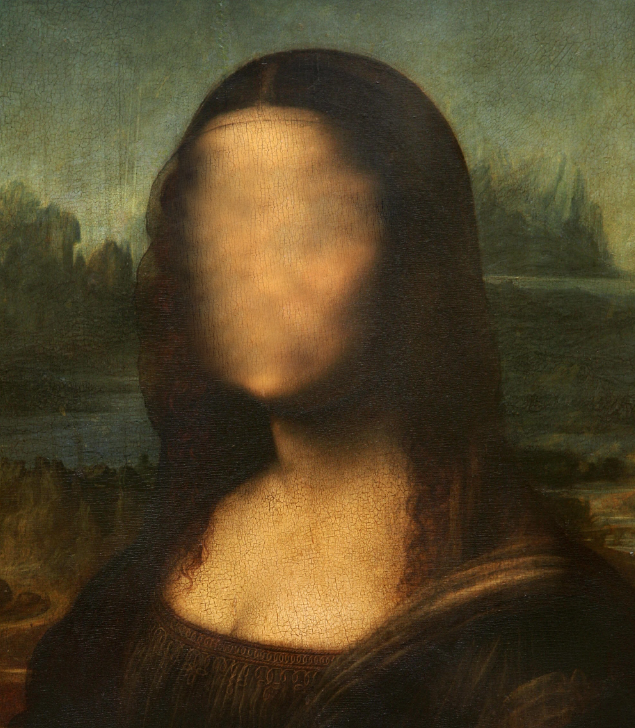
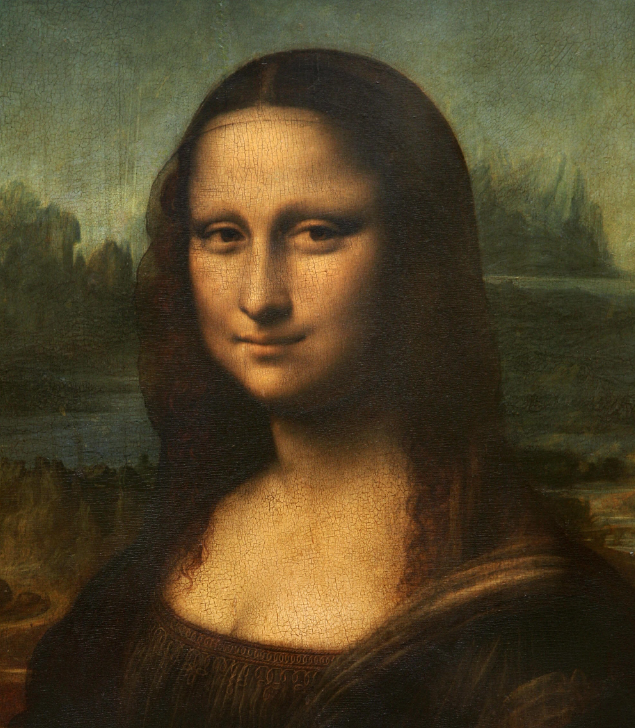
added face replacement backgrounds

Changed region(s): [[0.2693, 0.1813, 0.5984, 0.544]]

diff --git a/e05_style_multi.py b/e05_style_multi.py
@@ -16,7 +16,7 @@ import copy
 
 
 class StyleMultiSnap:
-    def __init__(self, height=480, width=320, cam=None, window_name=None):
+    def __init__(self, height=480, width=320, cam=None, window_name=None, focus_face=False):
         self.width = width
         self.heigth = height
         self.gpio = GPIOPinReader()
@@ -25,6 +25,7 @@ class StyleMultiSnap:
         self.window_name = window_name
 
         self.people_seg = SegmentationModel()
+        self.focus_face = focus_face
         self.face_det = FaceDetector()
         self.drawing_model = SketchModel()
         self.snap_camera = SnapCamera()
@@ -34,18 +35,32 @@ class StyleMultiSnap:
                             StyleTransfer('style_transfer/color_starry_300x480.onnx', width=300, height=480, preserve_color=True),
                             StyleTransfer('style_transfer/matisse_450x720.onnx', width=450, height=720, preserve_color=False),
                             StyleTransfer('style_transfer/afremov_450x720.onnx', width=450, height=720, preserve_color=False),
-                            StyleTransfer('style_transfer/flat_450x720.onnx', width=450, height=720, preserve_color=True, alpha=0.75),
+                            StyleTransfer('style_transfer/flat_450x720.onnx', width=450, height=720, preserve_color=True, segmap_to_gray=True),
+                            StyleTransfer('style_transfer/afremov_450x720.onnx', width=450, height=720, preserve_color=True, invert_segmap=True, segmap_to_gray=True),
                             SketchModel(width=480, heigth=720),
                             ]
     
-    def multi_snap(self, cd=3):
+    def multi_snap(self):
         seconds_left = self.snap_camera.start_snap()
         while seconds_left > 0:
             frame = self.cam.get_frame()
+            if self.focus_face:
+                boxes = self.face_det.find_single_face(frame)
+                self.face_det.draw_bounding_boxes(frame, boxes, color=(255,200,0))
             display_frame, seconds_left = self.snap_camera.snap(frame.copy())
+
             #print(seconds_left)
             cv2.imshow(self.window_name,display_frame)
             cv2.waitKey(1)
+        
+        if self.focus_face:
+            try:
+                frame = self.cam.get_frame()
+                boxes = self.face_det.find_single_face(frame)
+                frame = self.face_det.get_crops(boxes, frame, self.width, self.heigth, zoom=0.65)[0]
+            except:
+                frame = self.cam.get_frame()
+
 
         print('starting inference')
         self.seg_map = self.people_seg.segment(frame)
@@ -73,6 +88,7 @@ class StyleMultiSnap:
                     styled_frames[-1] = np.minimum(drawing, bg)
                     styled_frames[-2] =  np.minimum(drawing, styled_frames[-2]) #np.maximum(cv2.bitwise_not(drawing), styled_frames[-2])
                     styled_frames[-3] =  np.minimum(drawing, styled_frames[-3]) 
+                    styled_frames[-4] =  np.minimum(drawing, styled_frames[-4]) 
 
             frame_id%=len(styled_frames)
             styled_frame = styled_frames[frame_id]
@@ -100,5 +116,5 @@ class StyleMultiSnap:
 
 
 if __name__=='__main__':
-    sn = StyleMultiSnap(window_name='out')
+    sn = StyleMultiSnap(window_name='out', focus_face=True)
     sn.multi_snap()

diff --git a/e04_face_replace_multi.py b/e04_face_replace_multi.py
@@ -11,38 +11,30 @@ from queue import Queue
 from skimage import exposure
 
 
-class FaceReplace:
-    def __init__(self, height=480, width=320, cam=None, window_name=None, static_bg=None, face_area=None, style_path=None, softer_mask = 'resources/mask.jpg'):
+class FaceReplaceMulti:
+    def __init__(self, height=480, width=320, cam=None, window_name=None, softer_mask = 'resources/mask.jpg'):
         self.width = width
         self.heigth = height
 
         self.cam = Camera('cv2', self.width, self.heigth) if cam is None else cam
         self.window_name = window_name
-        self.background = cv2.resize(cv2.imread(static_bg), (self.width, self.heigth))
 
         self.people_seg = SegmentationModel()
         self.face_det = FaceDetector()
-        if style_path is not None:
-            self.style_model = StyleTransfer(style_path, height=200, width=200, preserve_color=True)
-        else:
-            self.style_model = None
         self.snap_camera = SnapCamera()
 
         self.softer_mask = cv2.imread(softer_mask)/255.0
 
-        if face_area is None:
-            boxes = self.face_det.find_single_face(self.background)
-            print(boxes[0])
-            self.face_area = boxes[0]
-            # self.face_det.draw_bounding_boxes(self.background, boxes)
-            # cv2.imshow('face',self.background)
-            # cv2.waitKey()
-        else:
-            self.face_area =[int(face_area[0]*width),
-                             int(face_area[1]*height),
-                             int(face_area[2]*width),
-                             int(face_area[3]*height)]
-    
+        backgrounds = ['resources/mona_lisa.jpg'
+                            
+                            ]
+        
+        self.face_areas = [
+                            [0.27, 0.145, 0.61, 0.55]
+                            ]
+        
+        self.backgrounds = [cv2.resize(cv2.imread(bg), (self.width, self.heigth)) for bg in backgrounds]
+
     def face_replace_snap(self):
         
         # key = cv2.waitKey(1) & 0xFF

diff --git a/style_transfer/utils.py b/style_transfer/utils.py
@@ -1,15 +1,15 @@
 import cv2
 import numpy as np
-def transfer_color(src, dest, mask=None, alpha=1.0):
+def transfer_color(src, dest, mask=None, alpha=1.0, invert_mask=False, src_to_grayscale=False):
     """
     Transfer Color using YIQ colorspace. Useful in preserving colors in style transfer.
     This method assumes inputs of shape [Height, Width, Channel] in BGR Color Space
     """
     if np.max(src)<=1:
-        print(' TRANSFER COLOR WARNING: received fp32 image, scaling')
+        print(' TRANSFER COLOR WARNING: received fp32 src image, scaling')
         src = (src.copy()*255).astype(np.uint8)
     if np.max(dest)<=1:
-        print(' TRANSFER COLOR WARNING: received fp32 image, scaling')
+        print(' TRANSFER COLOR WARNING: received fp32 dest image, scaling')
         dest = (dest.copy()*255).astype(np.uint8)
     src, dest = src.clip(0,255), dest.clip(0,255)
 
@@ -19,6 +19,10 @@ def transfer_color(src, dest, mask=None, alpha=1.0):
     H,W,_ = src.shape 
     dest = cv2.resize(dest, dsize=(W, H), interpolation=cv2.INTER_LINEAR)
 
+    if src_to_grayscale:
+       src = cv2.cvtColor(cv2.cvtColor(src, cv2.COLOR_BGR2GRAY), cv2.COLOR_GRAY2BGR)
+
+
     dest_gray = cv2.cvtColor(dest, cv2.COLOR_BGR2GRAY)              #1 Extract the Destination's luminance
     src_yiq = cv2.cvtColor(src, cv2.COLOR_BGR2YCrCb)                #2 Convert the Source from BGR to YIQ/YCbCr
     src_yiq[...,0] = dest_gray* alpha + src_yiq[...,0]*(1-alpha)    #3 Combine Destination's luminance and Source's IQ/CbCr
@@ -27,6 +31,8 @@ def transfer_color(src, dest, mask=None, alpha=1.0):
         mask = cv2.resize(mask, dsize=(W, H), interpolation=cv2.INTER_LINEAR)
         out = cv2.cvtColor(src_yiq, cv2.COLOR_YCrCb2BGR).clip(0,255)
         mask = np.clip(mask,0,1)
+        if invert_mask:
+            mask = 1-mask
         mask = cv2.cvtColor(mask, cv2.COLOR_GRAY2BGR)
         out = (out*mask + dest*(1-mask)).astype(np.uint8)
     else:

diff --git a/style_transfer/style_transfer.py b/style_transfer/style_transfer.py
@@ -4,7 +4,7 @@ import onnxruntime as ort
 import style_transfer.utils as utils # assuming this module contains a transfer_color function
 
 class StyleTransfer:
-    def __init__(self, model_path= 'style_transfer/brush_300x480.onnx', height = 480, width = 300, preserve_color = True, alpha=1.0):
+    def __init__(self, model_path= 'style_transfer/brush_300x480.onnx', height = 480, width = 300, preserve_color = True, alpha=1.0, invert_segmap=False, segmap_to_gray=False):
 
         self.ort_session = ort.InferenceSession(model_path)
         self.input_name = self.ort_session.get_inputs()[0].name
@@ -14,6 +14,8 @@ class StyleTransfer:
         self.width = width
         self.alpha = alpha
         self.added_noise =(np.random.rand(self.height, self.width, 3).astype(np.float32)-0.5)*10
+        self.invert_segmap = invert_segmap
+        self.segmap_to_gray = segmap_to_gray
 
     def transfer_style(self, frame: np.ndarray, seg_map: np.ndarray = None) -> np.ndarray:
         height, width, _ = frame.shape
@@ -30,7 +32,7 @@ class StyleTransfer:
         generated_image = (generated_image*255).astype(np.uint8)
 
         if self.preserve_color:
-            generated_image = utils.transfer_color(img, generated_image, mask=seg_map, alpha=self.alpha)
+            generated_image = utils.transfer_color(img, generated_image, mask=seg_map, alpha=self.alpha, invert_mask=self.invert_segmap, src_to_grayscale=self.segmap_to_gray)
 
         out_frame = cv2.resize(generated_image,(width, height))
 

diff --git a/camera.py b/camera.py
@@ -7,7 +7,7 @@ except:
     print('Picamera2 not available')
 
 class Camera:
-    def __init__(self, library, width, height):
+    def __init__(self, library, width, height, unzoom=2):
         self.width = width
         self.height = height
         self.library = auto_library
@@ -18,9 +18,11 @@ class Camera:
             self.cap.set(cv2.CAP_PROP_FRAME_HEIGHT, self.height)
         elif self.library == 'picamera':
             self.picam2 = Picamera2()
-            self.picam2.configure(self.picam2.create_preview_configuration(main={"format": 'RGB888', "size": (height*2, width*2)}))
+            self.picam2.configure(self.picam2.create_preview_configuration(main={"format": 'RGB888', "size": (height*unzoom, width*unzoom)}))
             self.picam2.start()
             # print('TODO: TEST IF RGB OR BGR WITH PICAMERA')
+
+    
 
     def get_frame(self):
         if self.library == 'cv2':

diff --git a/frame_main.py b/frame_main.py
@@ -3,7 +3,6 @@ import numpy as np
 
 from camera import Camera
 from keypad import GPIOPinReader
-from style_transfer.style_transfer import StyleTransfer
 
 from e00_starry_night import StarryNightSnap
 from e01_warhol_monroe import WarholMonroeSnap
